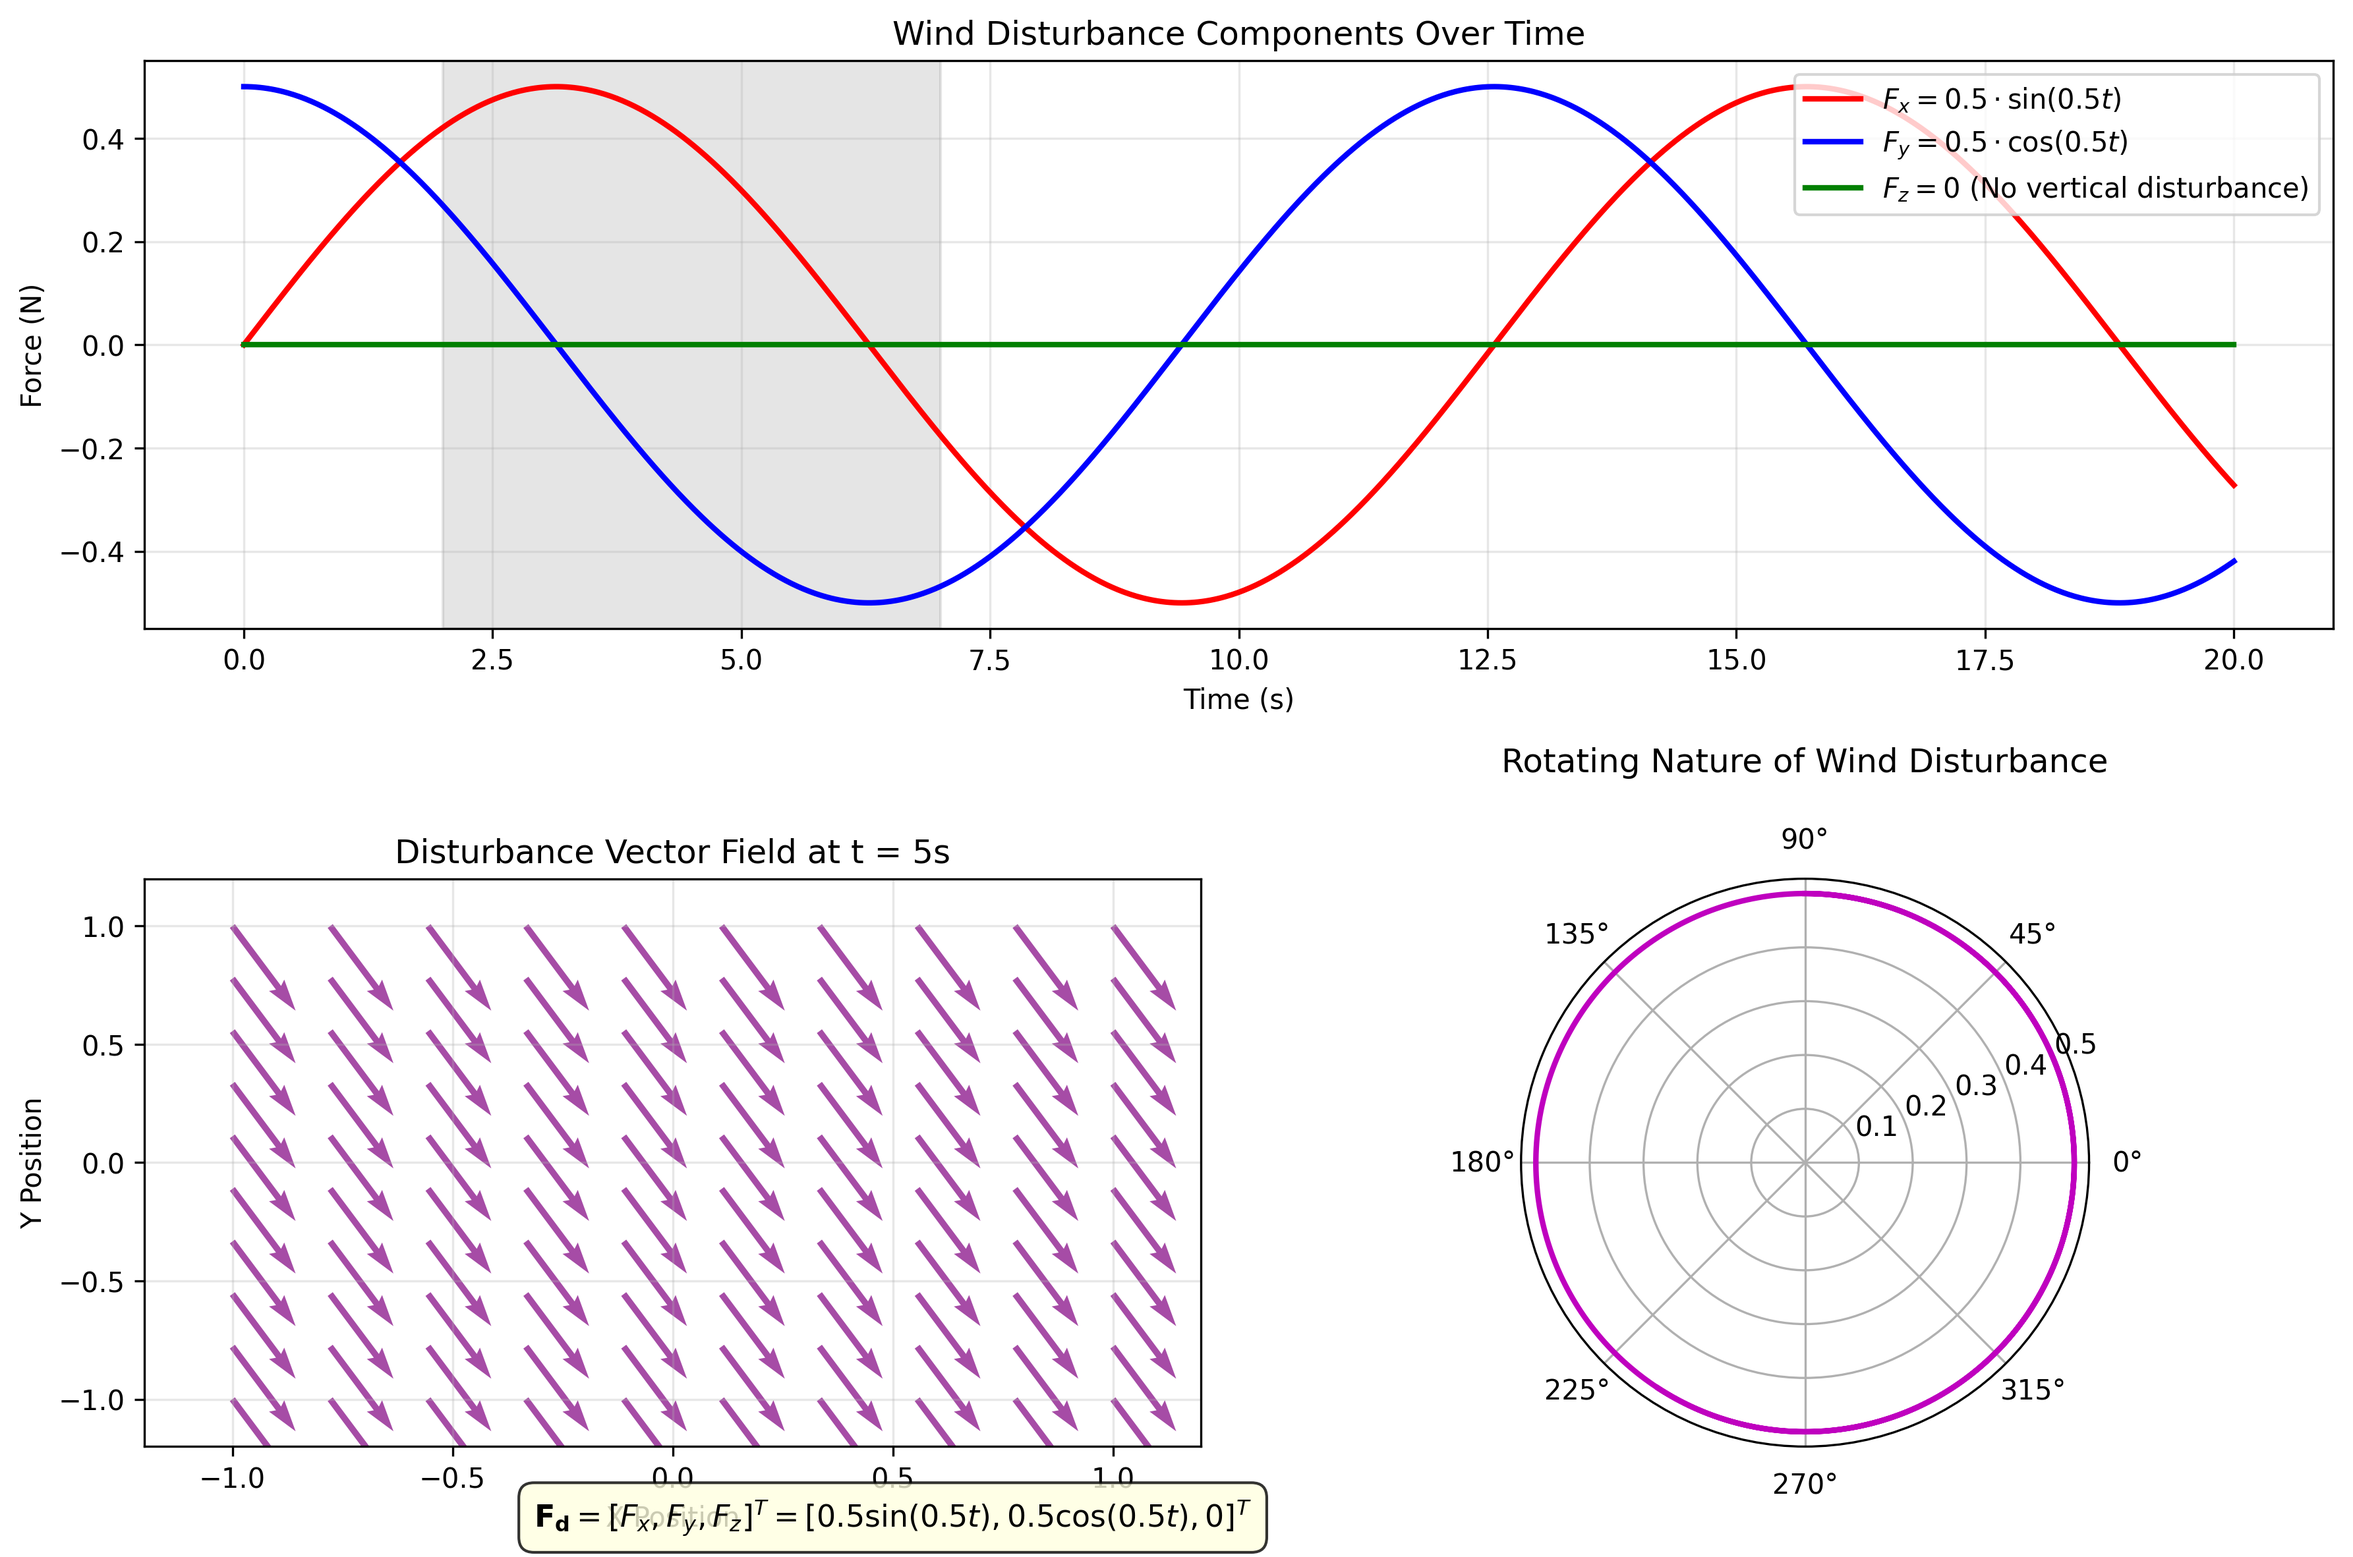
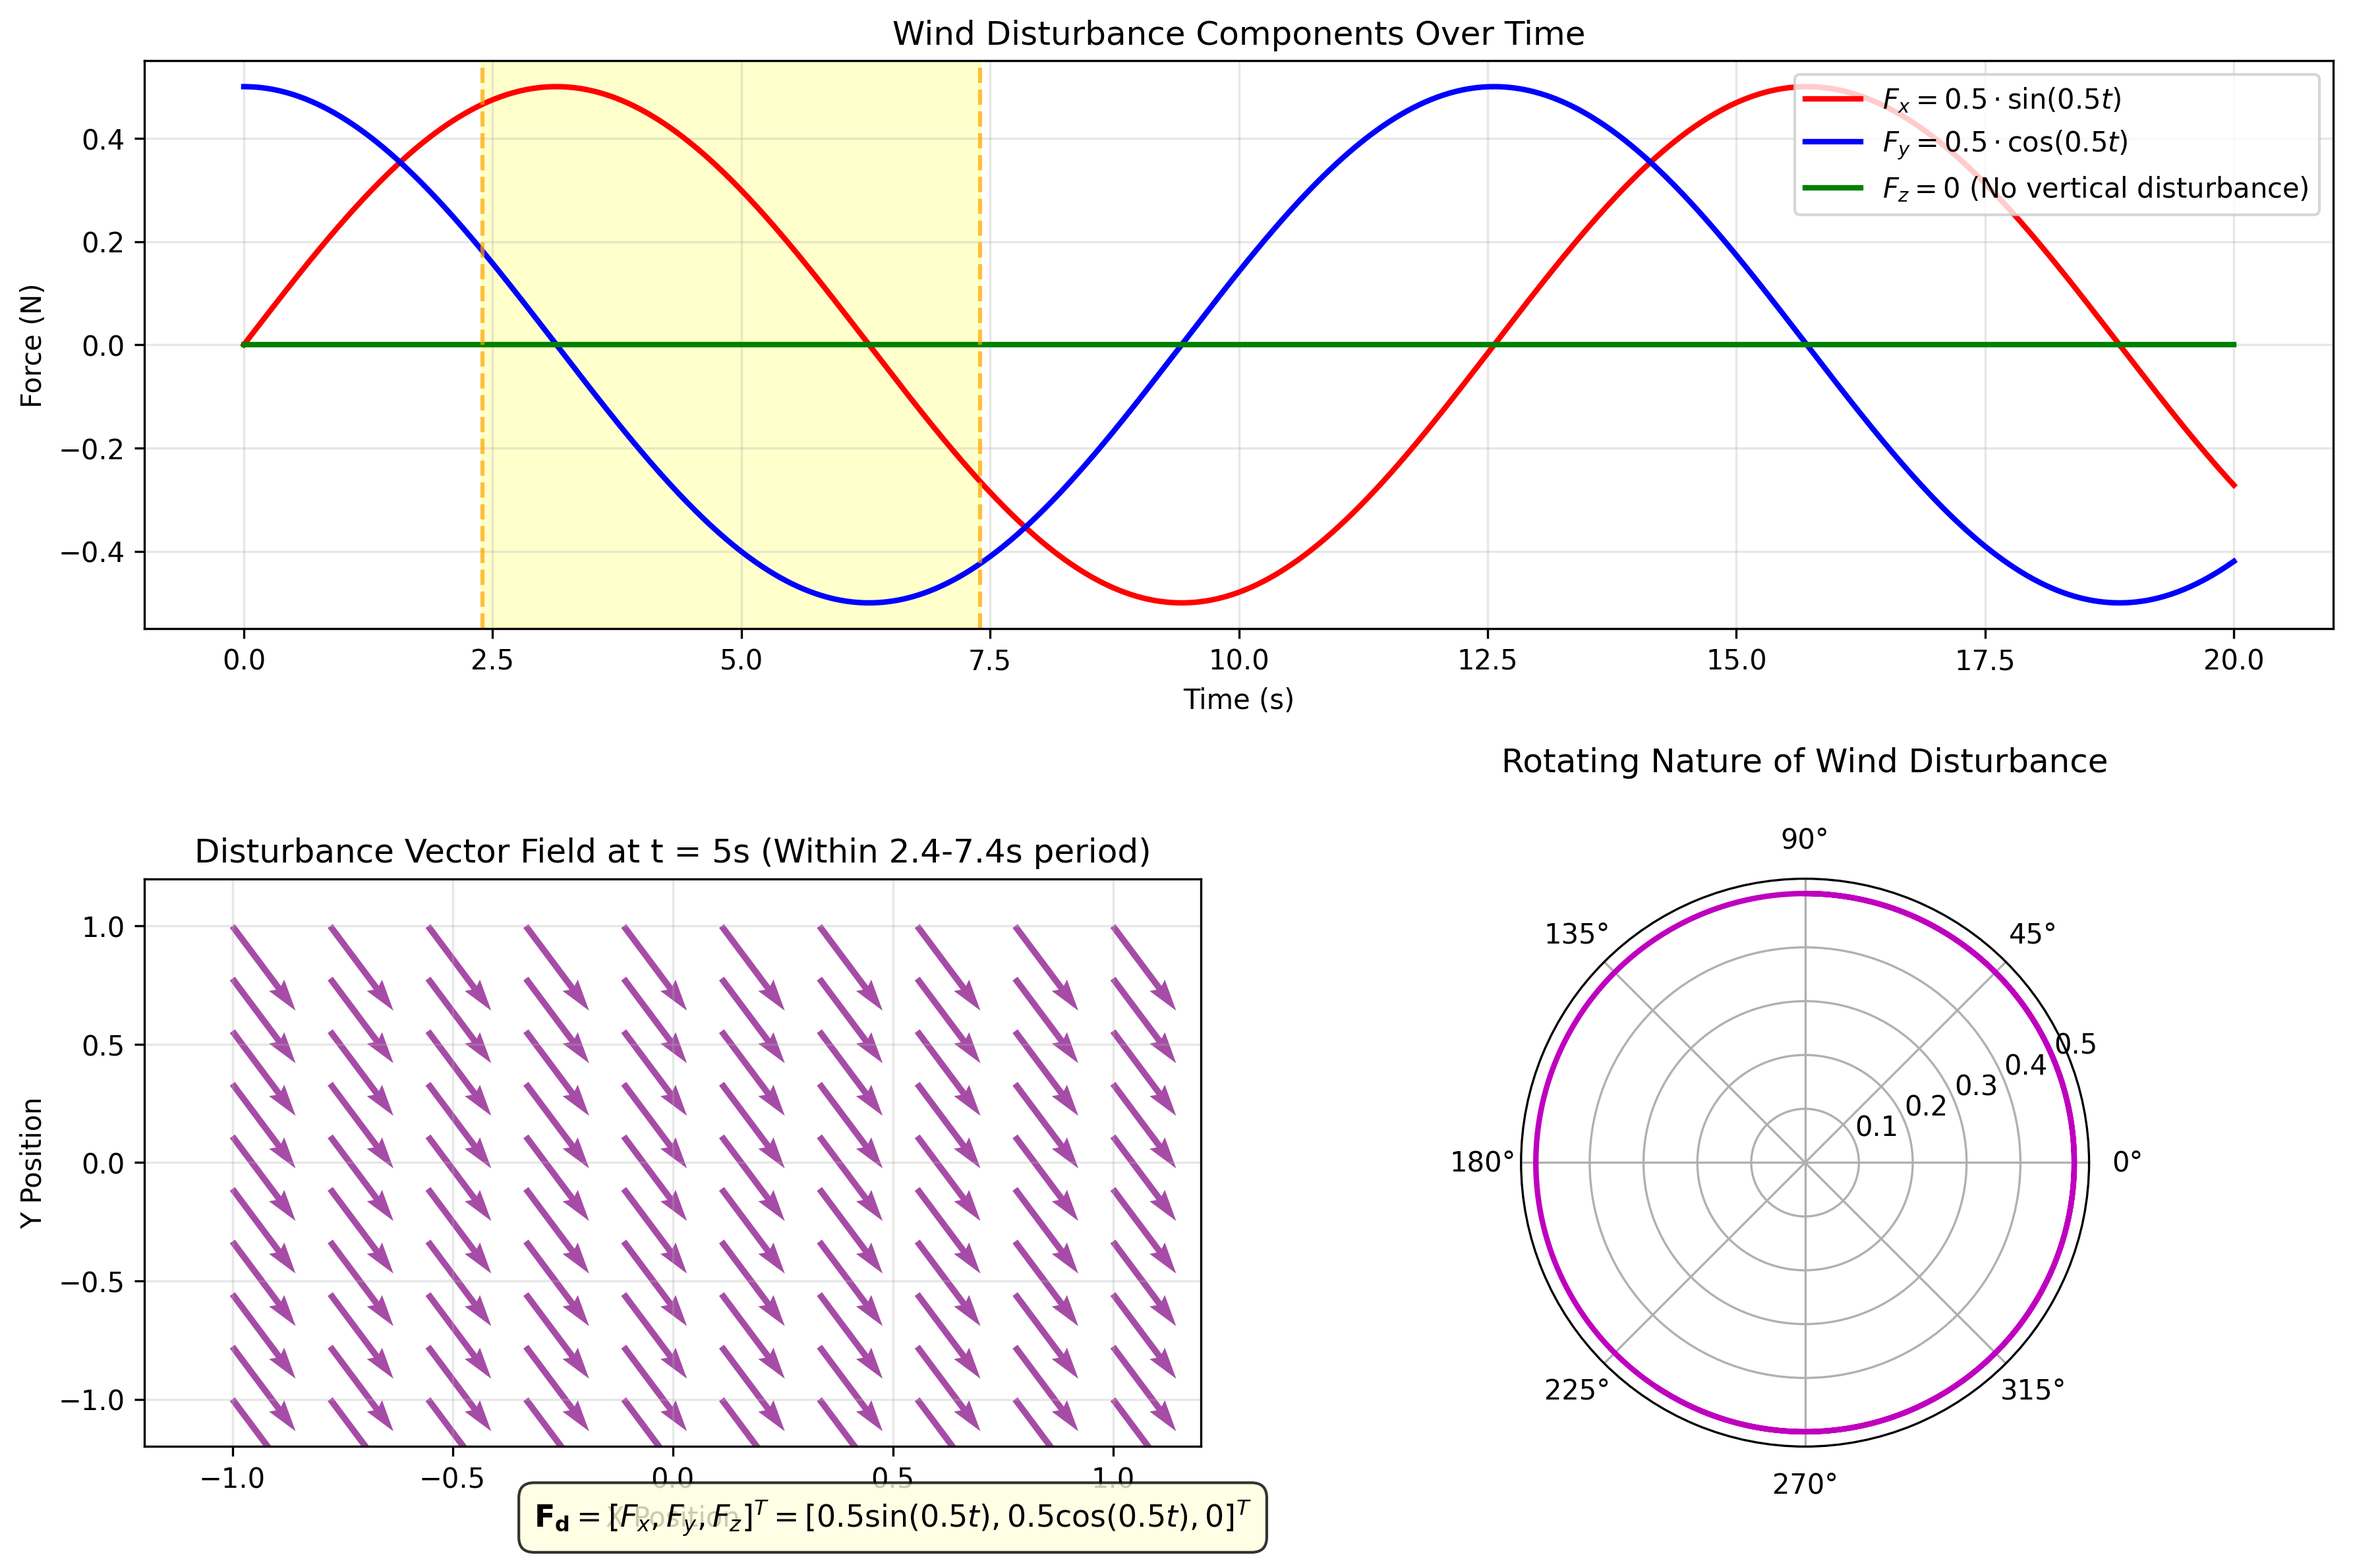
updates

Changed region(s): [[0.1866, 0.0309, 0.4353, 0.4016], [0.0933, 0.5252, 0.4975, 0.5561]]

diff --git a/combined_visualization.py b/combined_visualization.py
@@ -31,8 +31,12 @@ def create_disturbance_visualization():
     ax1.grid(True, alpha=0.3)
     ax1.legend(loc='upper right')
     
-    # Highlight disturbance period (2-7 seconds as in your comparison function)
-    ax1.axvspan(2, 7, alpha=0.2, color='gray', label='Typical Disturbance Period')
+    # CORREGIDO: Highlight disturbance period (2.4-7.4 seconds)
+    ax1.axvspan(2.4, 7.4, alpha=0.2, color='yellow', label='Disturbance Period (2.4-7.4s)')
+    
+    # Add vertical lines to mark boundaries
+    ax1.axvline(x=2.4, color='orange', linestyle='--', alpha=0.7)
+    ax1.axvline(x=7.4, color='orange', linestyle='--', alpha=0.7)
     
     # 2. Vector field visualization (at a specific time)
     ax2 = fig.add_subplot(gs[1, 0])
@@ -42,7 +46,7 @@ def create_disturbance_visualization():
     y = np.linspace(-1, 1, 10)
     X, Y = np.meshgrid(x, y)
     
-    # Calculate vector field at t=5 seconds
+    # Calculate vector field at t=5 seconds (within disturbance period)
     t_sample = 5
     Fx_sample = 0.5 * np.sin(0.5 * t_sample) * np.ones_like(X)
     Fy_sample = 0.5 * np.cos(0.5 * t_sample) * np.ones_like(Y)
@@ -51,12 +55,12 @@ def create_disturbance_visualization():
     ax2.quiver(X, Y, Fx_sample, Fy_sample, scale=5, color='purple', alpha=0.7)
     ax2.set_xlabel('X Position')
     ax2.set_ylabel('Y Position')
-    ax2.set_title(f'Disturbance Vector Field at t = {t_sample}s')
+    ax2.set_title(f'Disturbance Vector Field at t = {t_sample}s (Within 2.4-7.4s period)')
     ax2.set_xlim(-1.2, 1.2)
     ax2.set_ylim(-1.2, 1.2)
     ax2.grid(True, alpha=0.3)
     
-    # Add text annotation with equations (simplified for Matplotlib)
+    # Add text annotation with equations
     equation_text = (
         r'$\mathbf{F_d} = [F_x, F_y, F_z]^T = $'
         r'$[0.5 \sin(0.5t), 0.5 \cos(0.5t), 0]^T$'
@@ -85,9 +89,6 @@ def create_disturbance_visualization():
     plt.tight_layout()
     plt.savefig('disturbance_visualization.png', dpi=300, bbox_inches='tight')
     plt.show()
-    
-    # Create a simplified version for your slide
-    create_simplified_disturbance_plot()
 
 def create_simplified_disturbance_plot():
     """
@@ -112,11 +113,13 @@ def create_simplified_disturbance_plot():
     ax1.grid(True, alpha=0.3)
     ax1.legend()
     
-    # Highlight disturbance period
-    ax1.axvspan(2, 7, alpha=0.2, color='gray', label='Disturbance Period')
+    # CORREGIDO: Highlight disturbance period (2.4-7.4 seconds)
+    ax1.axvspan(2.4, 7.4, alpha=0.2, color='yellow', label='Disturbance Period (2.4-7.4s)')
+    ax1.axvline(x=2.4, color='orange', linestyle='--', alpha=0.7)
+    ax1.axvline(x=7.4, color='orange', linestyle='--', alpha=0.7)
     
     # Right: Vector diagram at specific time
-    t_sample = 5
+    t_sample = 5  # Within the disturbance period
     Fx_sample = 0.5 * np.sin(0.5 * t_sample)
     Fy_sample = 0.5 * np.cos(0.5 * t_sample)
     
@@ -126,10 +129,10 @@ def create_simplified_disturbance_plot():
     ax2.set_ylim(-0.6, 0.6)
     ax2.set_xlabel('X Force Component')
     ax2.set_ylabel('Y Force Component')
-    ax2.set_title(f'Disturbance Vector at t = {t_sample}s')
+    ax2.set_title(f'Disturbance Vector at t = {t_sample}s\n(Within 2.4-7.4s period)')
     ax2.grid(True, alpha=0.3)
     
-    # Add text with equations (simplified for Matplotlib)
+    # Add text with equations
     equation_text = (
         r'$\mathbf{F_d} = [F_x, F_y, F_z]^T = $'
         r'$[0.5 \sin(0.5t), 0.5 \cos(0.5t), 0]^T$'
@@ -186,11 +189,16 @@ def create_combined_methodology_visualization():
     ax2.plot(t, Fy, 'b-', linewidth=2, label=r'$F_y = 0.5 \cdot \cos(0.5t)$')
     ax2.set_xlabel('Time (s)')
     ax2.set_ylabel('Force (N)')
-    ax2.set_title("Wind Disturbance Model", fontsize=12)
+    ax2.set_title("Wind Disturbance Model (Period: 2.4-7.4s)", fontsize=12)
     ax2.grid(True, alpha=0.3)
     ax2.legend()
     
-    # Add equation text (simplified for Matplotlib)
+    # CORREGIDO: Highlight the correct period
+    ax2.axvspan(2.4, 7.4, alpha=0.2, color='yellow')
+    ax2.axvline(x=2.4, color='orange', linestyle='--', alpha=0.7)
+    ax2.axvline(x=7.4, color='orange', linestyle='--', alpha=0.7)
+    
+    # Add equation text
     equation_text = (
         r'$\mathbf{F_d} = [F_x, F_y, F_z]^T = $'
         r'$[0.5 \sin(0.5t), 0.5 \cos(0.5t), 0]^T$'
@@ -206,37 +214,52 @@ def create_combined_methodology_visualization():
 def create_controller_comparison():
     """
     Create a comparison of controller performance with and without disturbance.
+    CORRECTED VERSION: Uses 2.4-7.4s disturbance period
     """
     # Simulate some example data for comparison
     t = np.linspace(0, 10, 1000)
     
-    # Simulated responses (these would be replaced with your actual data)
+    # Find indices for the disturbance period (2.4-7.4s)
+    disturbance_start_idx = np.argmin(np.abs(t - 2.4))
+    disturbance_end_idx = np.argmin(np.abs(t - 7.4))
+    
+    # Simulated responses
     z_desired = np.ones_like(t)  # Desired height of 1m
     
     # Standard controller response (underdamped with disturbance)
     z_standard = 1 - np.exp(-0.8*t) * (np.cos(2*t) + 0.4*np.sin(2*t))
-    z_standard[300:700] += 0.3 * np.sin(0.5*(t[300:700]-3))  # Add disturbance effect
+    # CORREGIDO: Add disturbance effect during 2.4-7.4s
+    z_standard[disturbance_start_idx:disturbance_end_idx] += 0.3 * np.sin(0.5*(t[disturbance_start_idx:disturbance_end_idx]-2.4))
     
     # Disturbance-optimized controller response (better disturbance rejection)
     z_optimized = 1 - np.exp(-1.2*t) * (np.cos(2.5*t) + 0.3*np.sin(2.5*t))
-    z_optimized[300:700] += 0.1 * np.sin(0.5*(t[300:700]-3))  # Smaller disturbance effect
+    # CORREGIDO: Add smaller disturbance effect during 2.4-7.4s
+    z_optimized[disturbance_start_idx:disturbance_end_idx] += 0.1 * np.sin(0.5*(t[disturbance_start_idx:disturbance_end_idx]-2.4))
     
     # Create figure
-    plt.figure(figsize=(10, 6))
+    plt.figure(figsize=(12, 6))
     
     # Plot responses
     plt.plot(t, z_desired, 'k--', linewidth=2, label='Desired Height')
     plt.plot(t, z_standard, 'r-', linewidth=2, label='Standard PSO-PID')
     plt.plot(t, z_optimized, 'b-', linewidth=2, label='Disturbance-Optimized PSO-PID')
     
-    # Highlight disturbance period
-    plt.axvspan(3, 7, alpha=0.2, color='gray', label='Disturbance Period')
+    # CORREGIDO: Highlight the correct disturbance period
+    plt.axvspan(2.4, 7.4, alpha=0.2, color='yellow', label='Disturbance Period (2.4-7.4s)')
+    plt.axvline(x=2.4, color='orange', linestyle='--', alpha=0.7)
+    plt.axvline(x=7.4, color='orange', linestyle='--', alpha=0.7)
     
-    plt.xlabel('Time (s)')
-    plt.ylabel('Height z (m)')
-    plt.title('Controller Performance Comparison with Wind Disturbance')
-    plt.legend()
+    plt.xlabel('Time (s)', fontsize=12, fontweight='bold')
+    plt.ylabel('Height z (m)', fontsize=12, fontweight='bold')
+    plt.title('Controller Performance Comparison with Wind Disturbance (2.4-7.4s)', fontsize=14, fontweight='bold')
+    plt.legend(fontsize=10)
     plt.grid(True, alpha=0.3)
+    
+    # Add performance metrics text
+    plt.text(8, 0.3, 'Performance during disturbance:\n• Standard PSO-PID: Larger oscillations\n• Optimized PSO-PID: Better rejection\n• IAE improvement: 7.41%\n• ITSE improvement: 7.01%', 
+             bbox=dict(boxstyle="round,pad=0.5", facecolor="lightgreen", alpha=0.8),
+             fontsize=10)
+    
     plt.savefig('controller_comparison.png', dpi=300, bbox_inches='tight')
     plt.show()
 
